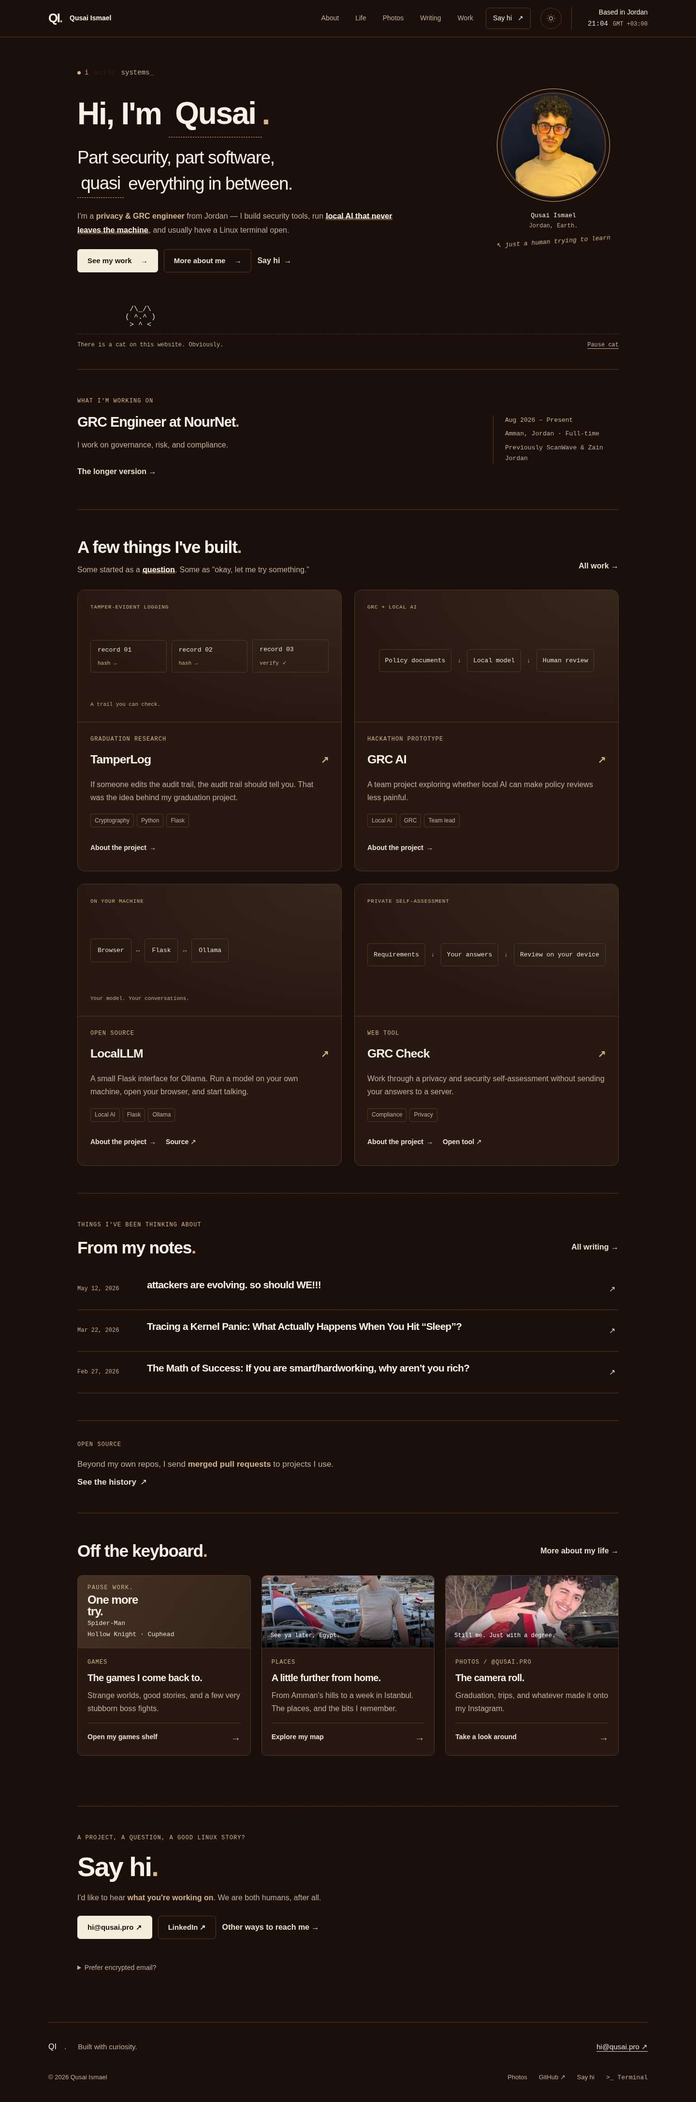
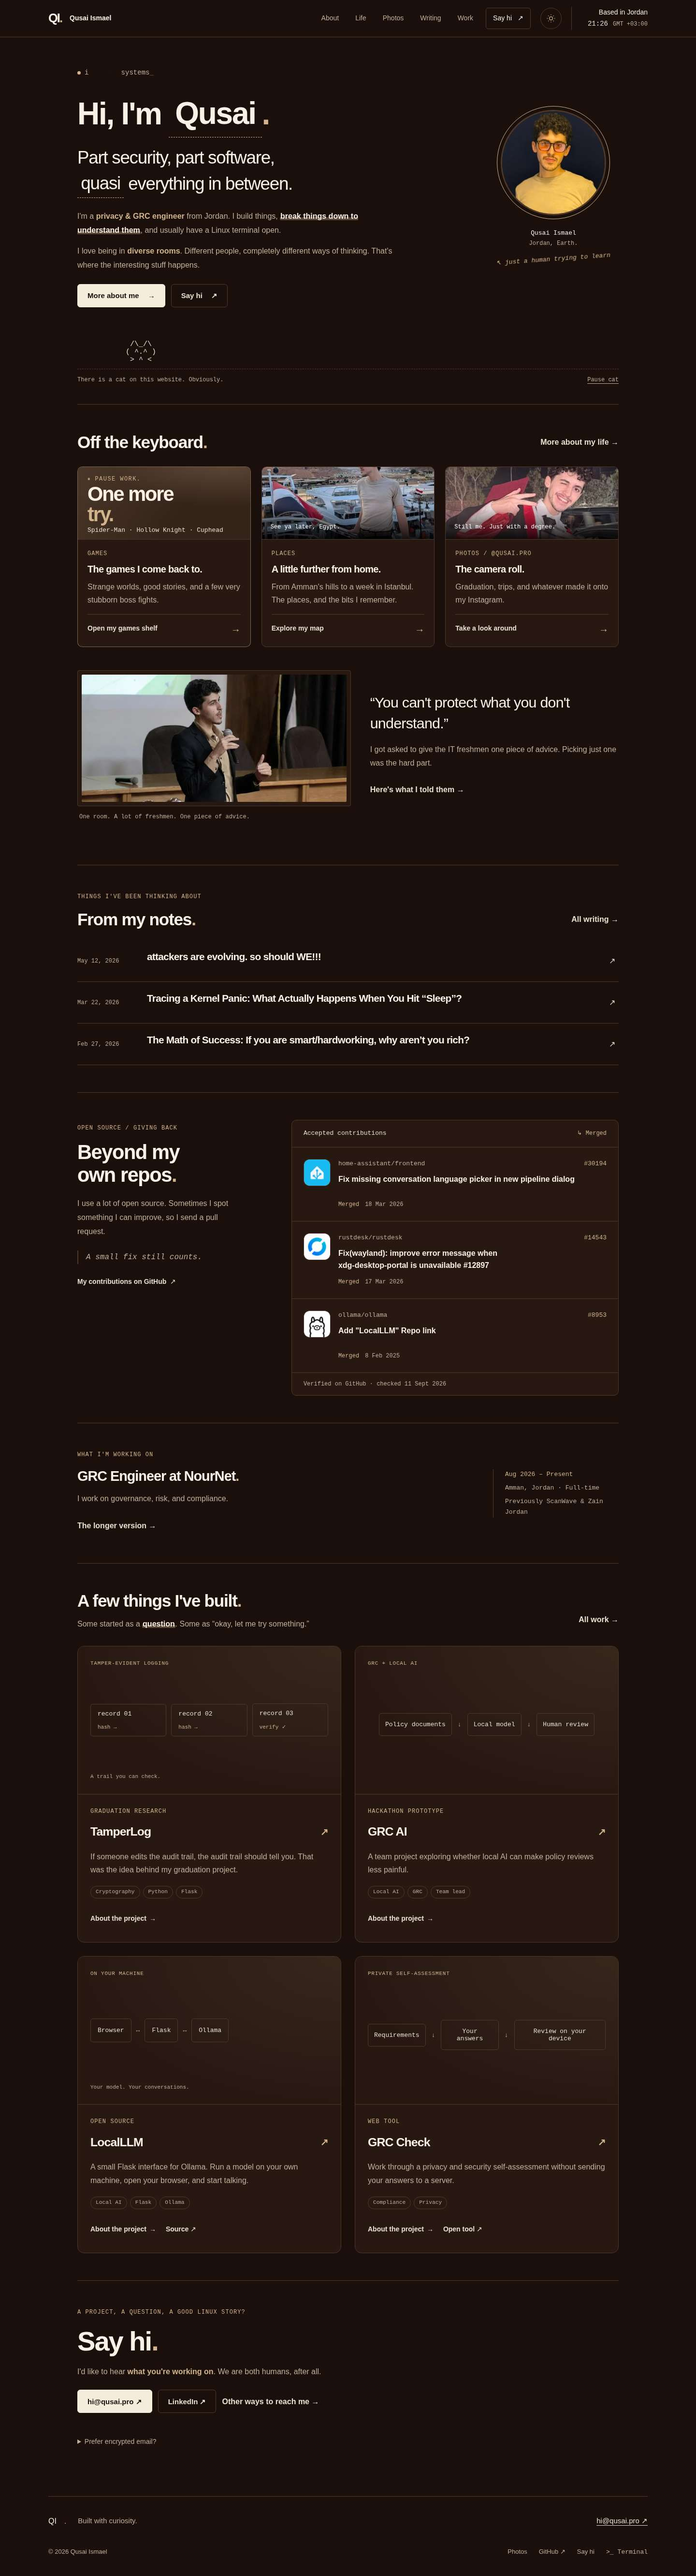
refactor(home): restore owner's order+copy verbatim, upgrade games & project cards
- section order back to original: hero -> life -> writing -> contributions -> experience -> projects -> contact
- original copy restored verbatim from main; only .em/.em-mark styling layered on same words
- games card: glowing console-card treatment (accent glow, oversized display type, pause glyph, hover tilt)
- project cards: 16:9 previews, accent top-bar on hover, lift+shadow, roomier content, pill tags
- personal-moment block + live contributions ledger restored with their CSS/JS

diff --git a/src/index.html b/src/index.html
@@ -23,22 +23,59 @@ customStyles: "/css/life-preview.css"
                 everything in between.</p>
             <div class="personal-note" id="quasi-note" hidden>Latin for “seemingly.” Also suspiciously close to my name.
             </div>
-            <p class="hero-intro">I'm a <strong class="em">privacy &amp; GRC engineer</strong> from Jordan — I build
-                security tools, run <span class="em-mark">local AI that never leaves the machine</span>, and usually
-                have a Linux terminal open.</p>
-            <div class="button-row"><a class="button button-primary" href="#projects">See my work <span
-                        aria-hidden="true">→</span></a><a class="button button-secondary" href="/portfolio/">More about me <span
-                        aria-hidden="true">→</span></a><a class="text-link" href="#contact">Say hi <span
-                        aria-hidden="true">→</span></a></div>
+            <p class="hero-intro">I'm a <strong class="em">privacy &amp; GRC engineer</strong> from Jordan. I build things, <span class="em-mark">break things down to understand them</span>, and usually have a Linux terminal open.</p>
+            <p class="hero-intro">I love being in <strong class="em">diverse rooms</strong>. Different people, completely different ways of thinking. That's where the interesting stuff happens.</p>
+            <div class="button-row"><a class="button button-primary" href="/portfolio/">More about me <span
+                        aria-hidden="true">→</span></a><a class="button button-secondary" href="/connect/">Say hi <span
+                        aria-hidden="true">↗</span></a></div>
         </div>
         <div class="hero-aside"><button class="portrait-button" type="button" data-profile-photo
                 aria-label="Expand Qusai's profile photo"><img src="/pfp-440.webp" alt="Qusai Ismael" width="440"
-                    height="440" fetchpriority="high" decoding="async"></button>
+                    height="220" fetchpriority="high" decoding="async"></button>
             <p class="portrait-caption">Qusai Ismael<br><span>Jordan, Earth.</span></p><span class="portrait-annotation"
                 aria-hidden="true">↖ just a human trying to learn</span>
         </div>
         {% include "cat.njk" %}
     </section>
+
+    <section id="life-teasers">
+        <div class="section-heading-row">
+            <div>
+                <h2>Off the keyboard<span class="accent-dot">.</span></h2>
+            </div><a class="text-link" href="/life/">More about my life →</a>
+        </div>
+        {% include "life-preview.njk" %}
+        <div class="personal-moment">
+            <figure><a href="/pics/freshmen-speech.webp" data-view-photo
+                    data-photo-caption="Speaking to IT freshmen at university"
+                    aria-label="Enlarge photo of Qusai speaking at university"><img src="/pics/freshmen-speech.webp"
+                        alt="Qusai speaking to freshmen at university" width="872" height="419" loading="lazy"></a>
+                <figcaption>One room. A lot of freshmen. One piece of advice.</figcaption>
+            </figure>
+            <div>
+                <blockquote>“You can't protect what you don't understand.”</blockquote>
+                <p>I got asked to give the IT freshmen one piece of advice. Picking just one was the hard part.</p><a
+                    class="text-link" href="/writing/stop-letting-your-college-major-define-you-61db61c6e640/">Here's
+                    what I told them →</a>
+            </div>
+        </div>
+
+    </section>
+
+    <section id="blog">
+        <div class="section-heading-row">
+            <div>
+                <p class="eyebrow">Things I've been thinking about</p>
+                <h2>From my notes<span class="accent-dot">.</span></h2>
+            </div><a class="text-link" href="/blog/">All writing →</a>
+        </div>
+        <div id="recent-medium-posts" class="recent-blog-list">{% for post in writing %}{% if loop.index <= 3 %}<a
+                class="recent-blog-item" href="/writing/{{ post.slug }}/"><time datetime="{{ post.date }}">{{
+                    post.dateLabel }}</time>
+                <h3>{{ post.title }}</h3><span aria-hidden="true">↗</span></a>{% endif %}{% endfor %}</div>
+    </section>
+
+    {% include "contributions.njk" %}
 
     <section id="experience" class="experience-summary">
         <div>
@@ -62,29 +99,7 @@ customStyles: "/css/life-preview.css"
             include "project-card.njk" %}{% endif %}{% endfor %}</div>
     </section>
 
-    <section id="blog">
-        <div class="section-heading-row">
-            <div>
-                <p class="eyebrow">Things I've been thinking about</p>
-                <h2>From my notes<span class="accent-dot">.</span></h2>
-            </div><a class="text-link" href="/blog/">All writing →</a>
-        </div>
-        <div id="recent-medium-posts" class="recent-blog-list">{% for post in writing %}{% if loop.index <= 3 %}<a
-                class="recent-blog-item" href="/writing/{{ post.slug }}/"><time datetime="{{ post.date }}">{{
-                    post.dateLabel }}</time>
-                <h3>{{ post.title }}</h3><span aria-hidden="true">↗</span></a>{% endif %}{% endfor %}</div>
-    </section>
 
-    {% include "contributions.njk" %}
-
-    <section id="life-teasers">
-        <div class="section-heading-row">
-            <div>
-                <h2>Off the keyboard<span class="accent-dot">.</span></h2>
-            </div><a class="text-link" href="/life/">More about my life →</a>
-        </div>
-        {% include "life-preview.njk" %}
-    </section>
 
     {% include "contact-section.njk" %}
 </main>

diff --git a/src/js/contributions.js b/src/js/contributions.js
@@ -1,0 +1,119 @@
+/* Only verified merges into other people's projects. No invented fallback activity. */
+(async () => {
+ const root = document.getElementById('gh-merged-prs');
+ if (!root) return;
+ const status = document.getElementById('gh-pulse-updated');
+ const key = 'qi_verified_merges_v4';
+ const url = 'https://api.github.com/search/issues?q=is%3Apr+is%3Amerged+author%3Aqusaismael+-user%3Aqusaismael&sort=updated&order=desc&per_page=3';
+ const dateFormat = new Intl.DateTimeFormat('en-GB', {day:'numeric', month:'short', year:'numeric', timeZone:'UTC'});
+ const valid = item => {
+  const match = typeof item?.html_url === 'string' && item.html_url.match(/^https:\/\/github\.com\/([A-Za-z0-9](?:[A-Za-z0-9-]*[A-Za-z0-9])?)\/([A-Za-z0-9_.-]+)\/pull\/([1-9]\d*)$/);
+  return match && !['.', '..'].includes(match[2]) && match[1].toLowerCase() !== 'qusaismael' && typeof item.title === 'string' && item.title.trim() &&
+   typeof item.pull_request?.merged_at === 'string' && Number.isFinite(Date.parse(item.pull_request.merged_at));
+ };
+ const node = (tag, text, cls) => {
+  const element = document.createElement(tag);
+  element.textContent = text;
+  if (cls) element.className = cls;
+  return element;
+ };
+ function repoIcon(owner, repo) {
+  const icon = node('span', '', 'contribution-icon');
+  // The adjacent repository name already identifies this decorative image.
+  icon.setAttribute('aria-hidden', 'true');
+  const words = repo.split(/[-_.]+/).filter(Boolean);
+  const initials = words.length > 1 ? words[0][0] + words[1][0] : (words[0] || owner).slice(0, 2);
+  const fallback = node('span', initials.toUpperCase(), 'contribution-initials');
+  const avatar = node('img', '', 'contribution-avatar');
+  avatar.alt = '';
+  avatar.width = 56; avatar.height = 56;
+  avatar.loading = 'lazy'; avatar.decoding = 'async'; avatar.referrerPolicy = 'no-referrer';
+  // Keep the image laid out while loading so native lazy loading can activate.
+  avatar.addEventListener('load', () => {
+   avatar.hidden = false;
+   avatar.setAttribute('data-loaded', 'true');
+   fallback.hidden = true;
+  });
+  avatar.addEventListener('error', () => {
+   avatar.hidden = true;
+   avatar.setAttribute('data-loaded', 'false');
+   fallback.hidden = false;
+  });
+  // GitHub's repository-owner avatar, never the PR author's image or a feed-supplied URL.
+  avatar.src = 'https://github.com/' + encodeURIComponent(owner) + '.png?size=112';
+  icon.append(fallback, avatar);
+  return icon;
+ }
+ function note(text) {
+  if (!status) return;
+  status.textContent = text;
+  status.hidden = false;
+ }
+ function render(items) {
+  const seen = new Set();
+  const selected = items.filter(valid).filter(item => {
+   if (seen.has(item.html_url)) return false;
+   seen.add(item.html_url); return true;
+  }).sort((a,b) => Date.parse(b.pull_request.merged_at)-Date.parse(a.pull_request.merged_at)).slice(0,3);
+  const rows = selected.map(pr => {
+   const parts = new URL(pr.html_url).pathname.split('/');
+   const row = node('li', '', 'contribution-item');
+   const repo = node('p', '', 'contribution-repo');
+   repo.append(node('span', parts[1] + '/' + parts[2]), node('span', '#' + parts[4]));
+   const title = node('h3', '');
+   const link = node('a', pr.title.trim());
+   link.href = pr.html_url; link.target = '_blank'; link.rel = 'noopener noreferrer';
+   title.append(link);
+   const meta = node('p', '', 'contribution-date');
+   const date = node('time', dateFormat.format(new Date(pr.pull_request.merged_at)));
+   date.dateTime = pr.pull_request.merged_at;
+   meta.append(node('span', 'Merged'), date);
+   row.append(repoIcon(parts[1], parts[2]), repo, title, meta);
+   return row;
+  });
+  root.replaceChildren(...rows);
+ }
+ let cache, savedAt;
+ try {
+  const saved = JSON.parse(localStorage.getItem(key));
+  const age = Date.now() - saved?.savedAt;
+  if (Number.isFinite(saved?.savedAt) && age >= 0 && age < 7*86400000 && Array.isArray(saved.items)) {
+   cache = saved.items.filter(valid);
+   savedAt = saved.savedAt;
+  }
+ } catch (_) { /* Storage is optional. */ }
+ root.setAttribute('aria-busy','true');
+ if (cache?.length) {
+  render(cache);
+  note('Saved ' + dateFormat.format(new Date(savedAt)) + ' · checking GitHub for updates…');
+ } else {
+  note('Checking accepted contributions on GitHub…');
+ }
+ const controller = new AbortController();
+ const timeout = setTimeout(() => controller.abort(), 8000);
+ try {
+  const response = await fetch(url, {signal:controller.signal, headers:{Accept:'application/vnd.github+json'}});
+  if (!response.ok) throw new Error('GitHub unavailable');
+  const body = await response.json();
+  if (!Array.isArray(body.items)) throw new Error('Invalid response');
+  const items = body.items.filter(valid);
+  if (!items.length) throw new Error('No verified merges returned');
+  render(items);
+  const checkedAt = Date.now();
+  note('Verified on GitHub · checked ' + dateFormat.format(new Date(checkedAt)));
+  try { localStorage.setItem(key, JSON.stringify({savedAt:checkedAt,items})); } catch (_) {}
+ } catch (_) {
+  if (cache?.length) {
+   note('Previously verified · saved ' + dateFormat.format(new Date(savedAt)) + ' · live refresh unavailable');
+  } else {
+   const empty = node('li', '', 'contribution-empty');
+   empty.append(node('p', "GitHub couldn't load the latest merges right now."),
+    node('span', 'You can still browse the full history through the link beside this list.'));
+   root.replaceChildren(empty);
+   note('Live feed unavailable. No substitute activity is shown.');
+  }
+ } finally {
+  clearTimeout(timeout);
+  root.setAttribute('aria-busy','false');
+ }
+})();

diff --git a/src/css/contributions.css b/src/css/contributions.css
@@ -1,5 +1,41 @@
-/* Home variant of the contributions section: one quiet line. */
-.contributions-home{padding-block:40px}
-.contributions-home-line{font-size:1.0625rem;line-height:1.8;color:var(--muted-text);max-width:60ch;margin:0}
-.contributions-home-line .text-link{white-space:nowrap}
-@media(max-width:767px){.contributions-home{padding-block:32px}}
+/* A compact contribution journal, separate from the portfolio project cards. */
+.contributions-section{display:grid;grid-template-columns:minmax(0,.8fr) minmax(0,1.4fr);gap:56px;align-items:start}
+.contributions-intro{min-width:0;padding-top:8px}
+.contributions-intro h2{font-size:clamp(1.9rem,3.2vw,2.6rem);line-height:1.13;margin-bottom:22px}
+.contributions-intro>p:not(.eyebrow){font-size:1rem;line-height:1.8;color:var(--muted-text);max-width:38ch}
+.contributions-intro>.contributions-personal-note{font:italic .875rem/1.7 var(--font-mono);color:var(--accent-color);border-left:2px solid var(--border-color);padding-left:16px;margin:24px 0 14px}
+.contributions-intro .text-link{font-size:.875rem}
+.contributions-ledger{min-width:0;border:1px solid var(--border-color);border-radius:10px;background:var(--card-background);overflow:hidden}
+.contributions-ledger-heading{display:flex;justify-content:space-between;align-items:center;gap:16px;padding:17px 24px;border-bottom:1px solid var(--border-color);font:.8125rem/1.6 var(--font-mono);color:var(--text-color)}
+.contributions-ledger-key{display:inline-flex;gap:8px;align-items:center;color:var(--accent-color);font-size:.75rem;white-space:nowrap}
+.contribution-list{list-style:none;margin:0;padding:0}
+.contribution-list>li+li{margin:0;border-top:1px solid var(--border-color)}
+.contribution-item{display:grid;grid-template-columns:56px minmax(0,1fr);grid-template-areas:"icon repo" "icon title" "icon date";column-gap:16px;padding:24px;min-width:0}
+.contribution-icon{grid-area:icon;align-self:start;position:relative;display:grid;place-items:center;width:56px;height:56px;overflow:hidden;border:1px solid var(--border-color);border-radius:12px;background:var(--background-color);color:var(--accent-color);font:600 1rem/1 var(--font-mono)}
+.contribution-icon img{position:absolute;inset:0;display:block;width:100%;height:100%;margin:0;border-radius:inherit;object-fit:contain;background:#fff;opacity:0}
+.contribution-icon img[data-loaded="true"]{opacity:1}
+.contribution-icon [hidden]{display:none}
+.contribution-repo{grid-area:repo;min-width:0;display:flex;justify-content:space-between;align-items:baseline;gap:10px 20px;margin:0 0 8px;font:.8125rem/1.6 var(--font-mono);color:var(--muted-text);overflow-wrap:anywhere}
+.contribution-repo>span:last-child{white-space:nowrap;color:var(--accent-color)}
+.contribution-item h3{grid-area:title;min-width:0;font-size:1rem;line-height:1.6;letter-spacing:0;margin:0 0 12px;overflow-wrap:anywhere}
+.contribution-item h3 a{display:block;color:var(--heading-color);text-decoration:none;min-height:44px}
+.contribution-item h3 a:hover{text-decoration:underline;text-underline-offset:4px;color:var(--accent-color)}
+.contribution-date{grid-area:date;display:flex;align-items:baseline;flex-wrap:wrap;gap:8px 12px;color:var(--muted-text);font:.75rem/1.6 var(--font-mono);margin:0}
+.contribution-date>span{color:var(--accent-color)}
+.contribution-verification{padding:13px 24px;margin:0;border-top:1px solid var(--border-color);color:var(--muted-text);font:.75rem/1.7 var(--font-mono)}
+.contribution-empty{padding:28px 24px;color:var(--muted-text)}
+.contribution-empty p{font-size:1rem;line-height:1.8;margin:0 0 12px}
+.contribution-empty>span{font:.8125rem/1.7 var(--font-mono)}
+@media(max-width:767px){
+ .contributions-section{grid-template-columns:minmax(0,1fr);gap:24px}
+ .contributions-intro{padding:0}.contributions-intro h2 br{display:none}
+ .contributions-intro>p:not(.eyebrow){max-width:none}
+ .contributions-intro>.contributions-personal-note{margin:18px 0 12px}
+ .contributions-ledger-heading{padding:16px 18px;flex-wrap:wrap;gap:8px}
+ .contribution-item{grid-template-columns:48px minmax(0,1fr);grid-template-areas:"icon repo" "title title" "date date";gap:12px 14px;padding:18px}
+ .contribution-icon{width:48px;height:48px;border-radius:10px}
+ .contribution-repo{align-self:center;flex-wrap:wrap;gap:4px 14px;margin:0}
+ .contribution-item h3{margin:0}
+ .contribution-verification,.contribution-empty{padding:18px}
+}
+@media print{.contributions-section{display:block}.contributions-ledger{margin-top:20px}.contribution-item{break-inside:avoid}}

diff --git a/src/css/style.css b/src/css/style.css
@@ -82,16 +82,19 @@ section,[id]{scroll-margin-top:calc(var(--header-offset,var(--header-height)) + 
 .about-heading{display:flex;justify-content:space-between;align-items:center;gap:32px}.about-heading .portrait-button{width:160px;height:160px}
 .about-prose p{max-width:780px}
 /* Work */
-.project-grid-enhanced{display:grid;grid-template-columns:repeat(2,minmax(0,1fr));gap:26px;margin-top:28px}
-.project-card-enhanced{background:var(--card-background);border:1px solid var(--border-color);border-radius:var(--border-radius-lg);overflow:hidden;min-width:0;display:flex;flex-direction:column}
+.project-grid-enhanced{display:grid;grid-template-columns:repeat(2,minmax(0,1fr));gap:28px;margin-top:32px}
+.project-card-enhanced{background:var(--card-background);border:1px solid var(--border-color);border-radius:14px;overflow:hidden;min-width:0;display:flex;flex-direction:column;position:relative;transition:transform .2s ease,box-shadow .2s ease,border-color .2s ease}
 .project-card-enhanced:focus-within{border-color:var(--accent-color)}
-.project-preview{aspect-ratio:2/1;display:block;overflow:hidden;background:var(--secondary-color);border-bottom:1px solid var(--border-color);text-decoration:none}
+.selected-work-grid .project-card-enhanced::before{content:"";position:absolute;top:0;left:0;right:0;height:3px;background:linear-gradient(90deg,var(--accent-color),transparent 70%);opacity:0;transition:opacity .2s ease;z-index:1}
+.selected-work-grid .project-card-enhanced:hover::before{opacity:1}
+@media (prefers-reduced-motion: no-preference){.project-card-enhanced:hover{transform:translateY(-4px);box-shadow:var(--shadow-hover);border-color:var(--accent-color)}}
+.project-preview{aspect-ratio:16/9;display:block;overflow:hidden;background:var(--secondary-color);border-bottom:1px solid var(--border-color);text-decoration:none}
 .project-preview>img{width:100%;height:100%;object-fit:contain}
 .project-content{padding:26px;flex:1;display:flex;flex-direction:column}
 .project-content .eyebrow{font-size:.75rem;margin-bottom:10px}.project-content h3{font-size:1.55rem}
 .project-content h3 a{text-decoration:none;display:flex;align-items:center;justify-content:space-between;gap:20px;min-height:44px}
 .project-title-arrow{font-size:1.25rem;color:var(--accent-color)}.project-content>p{color:var(--muted-text);font-size:1rem}
-.tags{display:flex;flex-wrap:wrap;gap:6px}.tags span{display:inline-flex;align-items:center;min-height:28px;border:1px solid var(--border-color);border-radius:4px;padding:2px 8px;font-size:.75rem;color:var(--muted-text)}
+.tags{display:flex;flex-wrap:wrap;gap:6px}.tags span{display:inline-flex;align-items:center;min-height:26px;border:1px solid var(--border-color);border-radius:999px;padding:2px 10px;font:.7rem/1.4 var(--font-mono);color:var(--muted-text)}
 .project-actions{display:flex;gap:20px;flex-wrap:wrap;padding-top:20px;margin-top:auto}
 .project-actions a{font-size:.875rem;font-weight:550;min-height:44px;display:inline-flex;align-items:center;gap:6px;text-decoration:none}.project-actions a:hover{text-decoration:underline}
 .project-diagram{height:100%;padding:26px;display:flex;flex-direction:column;justify-content:space-between;background:radial-gradient(ellipse at top right,rgba(var(--accent-color-rgb),.09),transparent 70%),var(--card-background);color:var(--text-color)}

diff --git a/src/css/personality.css b/src/css/personality.css
@@ -39,6 +39,13 @@ html:not(.js) .wandering-cat{pointer-events:none}
 .project-card-enhanced{transition:border-color .2s ease,box-shadow .2s ease}
 .project-card-enhanced:hover{border-color:var(--accent-color);box-shadow:0 8px 24px var(--shadow-color)}
 .project-photo-caption{display:block;padding:9px 20px;border-bottom:1px solid var(--border-color);color:var(--muted-text);font:.75rem/1.6 var(--font-mono)}
+.personal-moment{display:grid;grid-template-columns:1.1fr 1fr;gap:40px;align-items:center;margin:32px 0}
+.personal-moment figure,.memory-strip figure{margin:0;min-width:0}
+.personal-moment figure>a,.memory-strip figure>a{display:block;background:var(--card-background);padding:8px;border:1px solid var(--border-color);border-radius:4px}
+.personal-moment img,.memory-strip img{width:100%;height:auto;border-radius:2px}
+.personal-moment figcaption,.memory-strip figcaption{font:.75rem/1.7 var(--font-mono);padding:12px 4px 0}
+.personal-moment blockquote{font-size:clamp(1.4rem,2.5vw,1.9rem);line-height:1.4;letter-spacing:-.025em;color:var(--heading-color);margin:0 0 20px}
+.personal-moment>div>p{color:var(--muted-text)}
 .memory-strip{display:grid;grid-template-columns:1fr 1fr;gap:32px;margin:32px 0 20px;padding:8px 4px}
 .memory-strip figure{margin:0;min-width:0}
 .memory-strip figure>a{display:block;background:var(--card-background);padding:8px;border:1px solid var(--border-color);border-radius:4px}
@@ -73,6 +80,7 @@ html:not(.js) .wandering-cat{pointer-events:none}
  .portrait-annotation{display:none}
  .cat-track{height:78px}.cat-frame{font-size:14px}
  .cat-caption{gap:10px;font-size:.75rem}
+ .personal-moment{grid-template-columns:minmax(0,1fr);gap:26px}
  .memory-strip{gap:24px;grid-template-columns:minmax(0,1fr);padding-inline:4px}
  .memory-strip figure{max-width:540px}
  .personal-note{padding:14px 16px;font-size:.8125rem}
@@ -89,6 +97,6 @@ html:not(.js) .wandering-cat{pointer-events:none}
  .hero-aside .portrait-button:hover,.project-card-enhanced:hover .has-personal-photo>img{transform:none}
 }
 @media print{
- .cat-habitat,.hero-system-line,.portrait-annotation,.memory-strip,.exp-photo,.project-photo-caption{display:none!important}
+ .cat-habitat,.hero-system-line,.portrait-annotation,.memory-strip,.personal-moment,.exp-photo,.project-photo-caption{display:none!important}
  .name-tip{border:0}.personal-note{display:none!important}
 }

diff --git a/src/css/life-preview.css b/src/css/life-preview.css
@@ -9,7 +9,16 @@
 .discovery-game-preview{display:flex;flex-direction:column;justify-content:space-between;padding:16px 20px;background:linear-gradient(125deg,rgba(var(--accent-color-rgb),.1),transparent),var(--secondary-color)}
 .discovery-game-kicker{font:.75rem/1.6 var(--font-mono);text-transform:uppercase;letter-spacing:.12em;color:var(--accent-color)}
 .discovery-game-preview strong{font-size:1.5rem;line-height:1;letter-spacing:-.04em;font-weight:650;color:var(--heading-color)}
+.discovery-game-preview strong em{font-style:normal;color:var(--accent-color)}
 .discovery-game-titles{font:.8125rem/1.7 var(--font-mono);color:var(--text-color)}
+/* Games card: a glowing "console card" instead of a stock photo. */
+.discovery-game-preview{background:radial-gradient(120% 120% at 85% -10%,rgba(var(--accent-color-rgb),.28),transparent 55%),linear-gradient(125deg,rgba(var(--accent-color-rgb),.14),transparent 60%),var(--secondary-color)}
+.discovery-game-kicker{display:inline-flex;align-items:center;gap:8px}
+@media (prefers-reduced-motion: no-preference){.discovery-game-kicker::before{content:"⏸";font-size:.9em}}
+.discovery-game-preview strong{font-size:2.6rem;font-weight:700;letter-spacing:-.05em;line-height:1.02;text-wrap:balance}
+.life-discovery-games{border-color:rgba(var(--accent-color-rgb),.5)}
+@media (prefers-reduced-motion: no-preference){.life-discovery-games:hover{transform:translateY(-3px) rotate(-.4deg)}.life-discovery-games .discovery-game-preview{transition:filter .2s ease}.life-discovery-games:hover .discovery-game-preview,.life-discovery-games:focus-visible .discovery-game-preview{filter:brightness(1.07)}}
+@media(min-width:901px){.discovery-game-preview strong{font-size:2.6rem}}
 .discovery-copy{display:flex;flex-direction:column;flex:1;padding:20px}
 .discovery-copy>.eyebrow{margin-bottom:10px}
 .discovery-copy h3{font-size:1.25rem;line-height:1.25;margin:0 0 10px}
